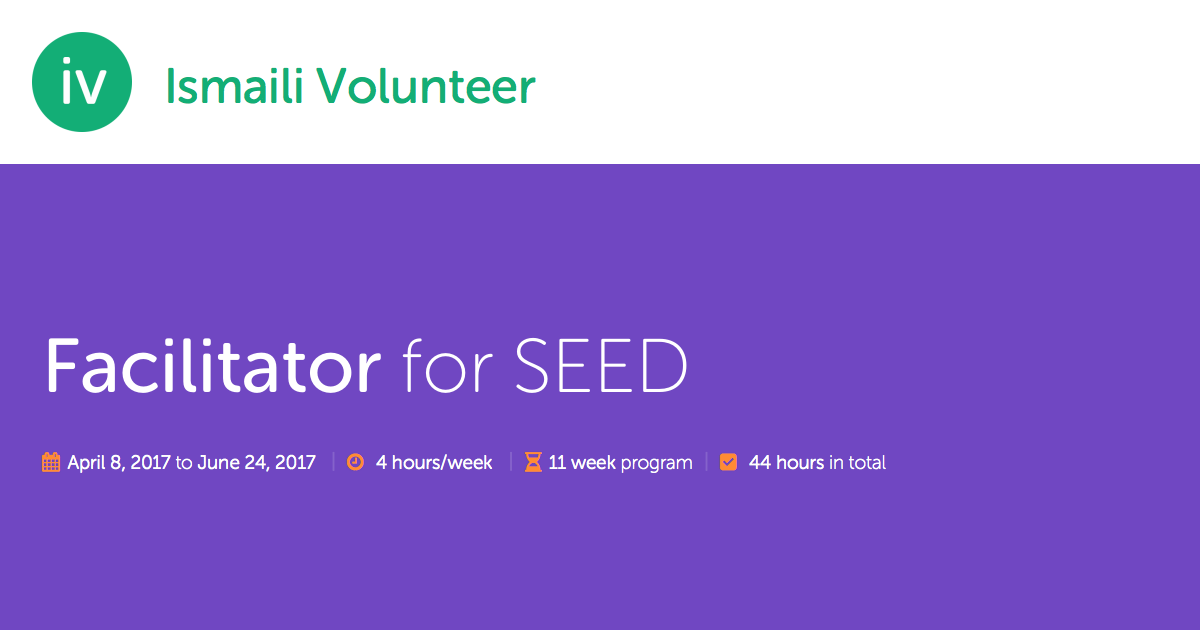
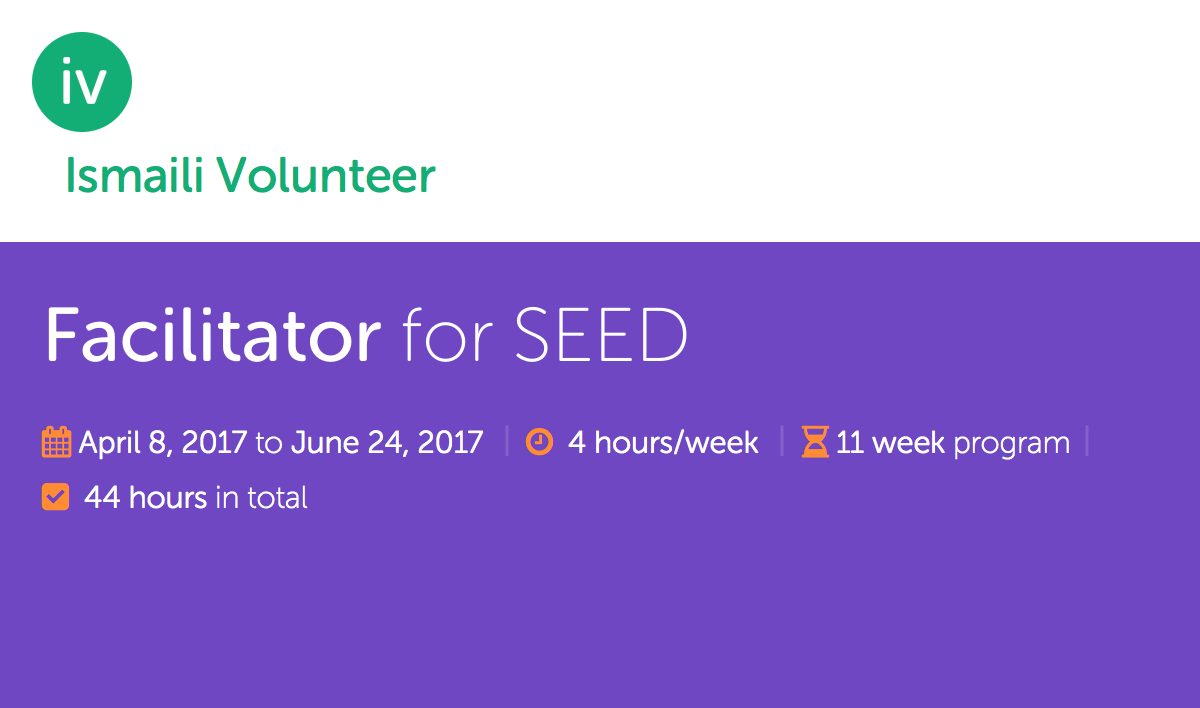
Update phantom images

diff --git a/styles/phantom.scss b/styles/phantom.scss
@@ -33,7 +33,7 @@ h1 {
 }
 
 .item-meta {
-	font-size: 1.2rem;
+	font-size: 1.953rem;
 	color: rgba(255, 255, 255, 1.0);
 	font-weight: 100;
 	margin-bottom: 0;
